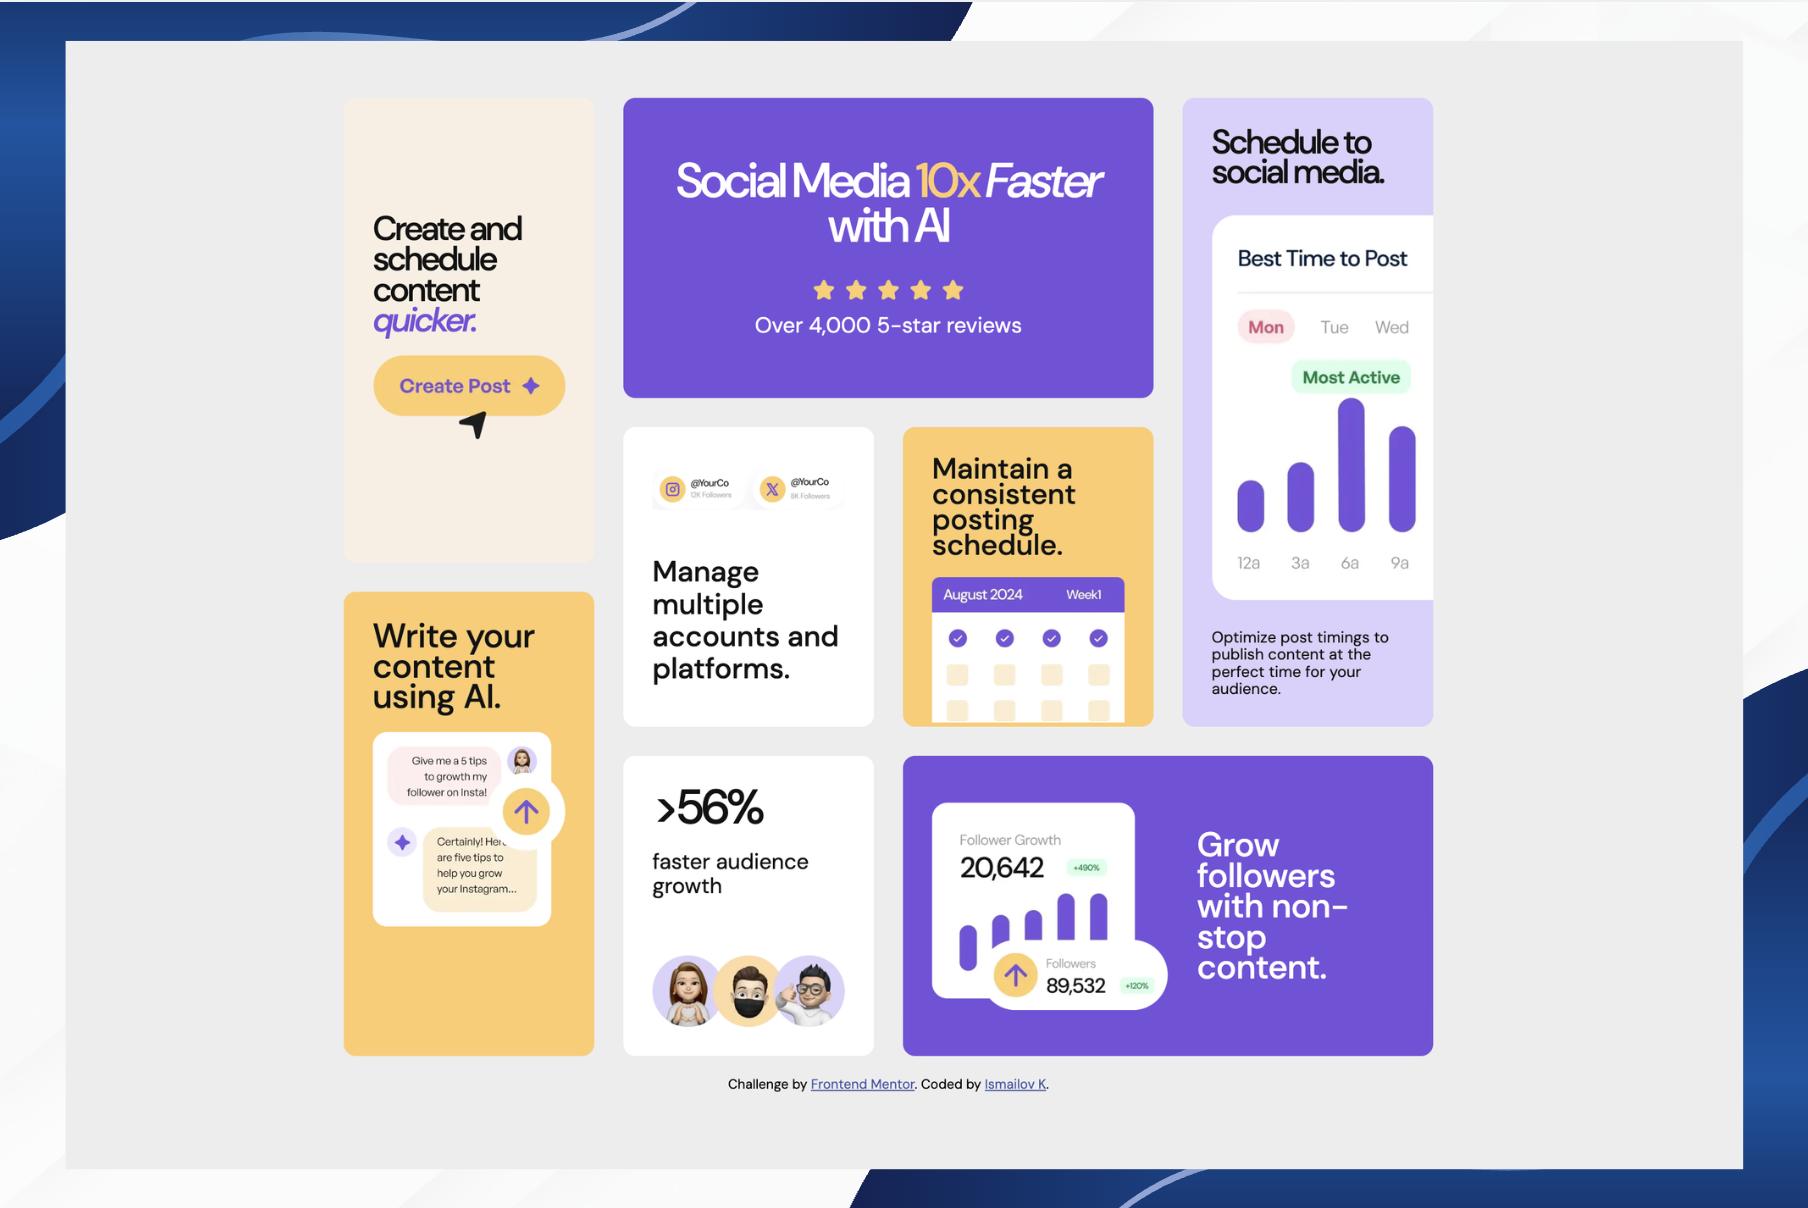
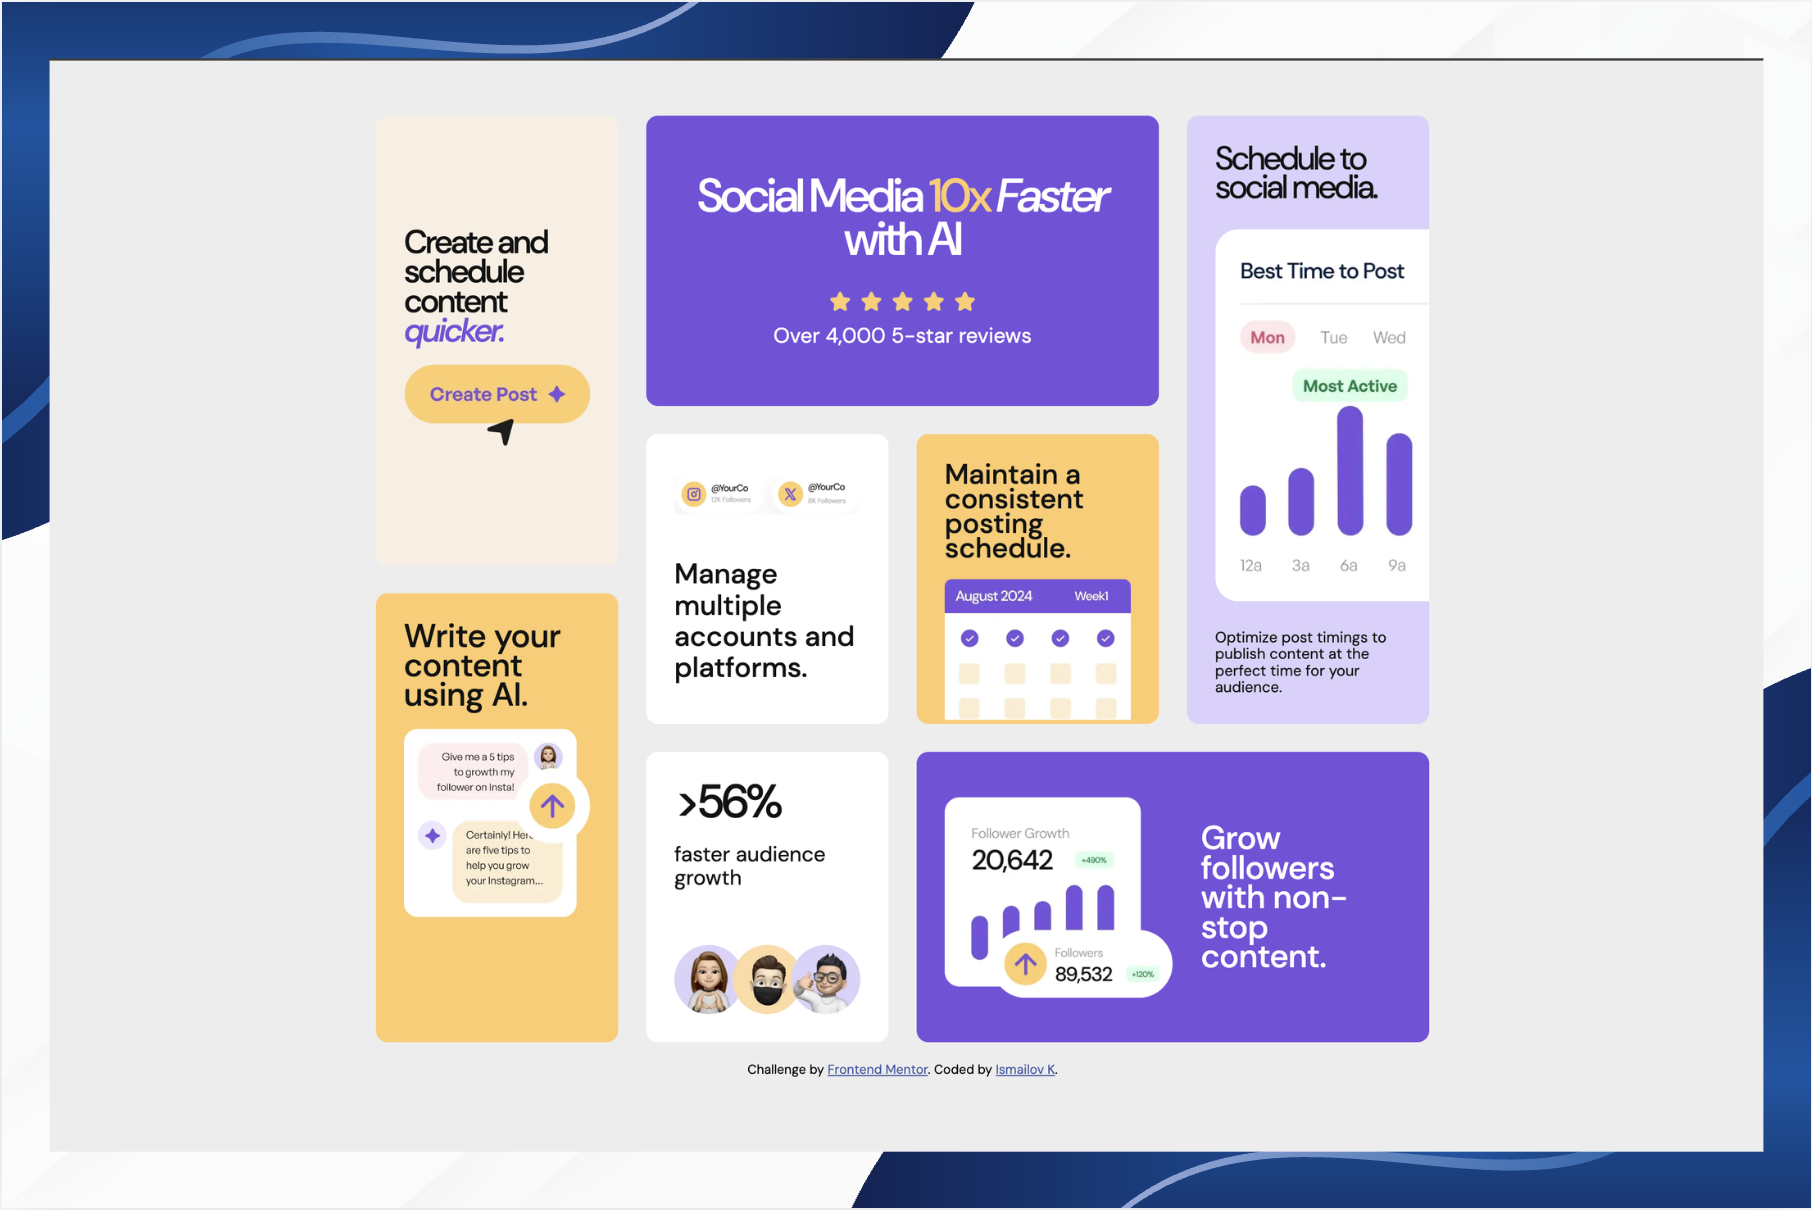
new screenshot file, new readme file, and some css changes were made

diff --git a/style.css b/style.css
@@ -29,6 +29,7 @@ body {
 .card-hero       { grid-column: 2 / span 2; grid-row: 1 / span 2; }
 .card-schedule   { grid-column: 4;          grid-row: 1 / span 4; }
 .card-manage     { grid-column: 2;          grid-row: 3 / span 2; }
+ 
 .card-consistent { grid-column: 3;          grid-row: 3 / span 2; }
 .card-ai         { grid-column: 1;          grid-row: 4 / span 3; }
 .card-audience   { grid-column: 2;          grid-row: 5 / span 2; }
@@ -122,7 +123,7 @@ body {
 
 .card-schedule__title {
     font-size: 1.75rem;
-    font-weight: 500;
+    font-weight: 400;
     line-height: 0.875;
     letter-spacing: -2px;
     color: hsl(0, 0%, 7%);

diff --git a/README.md b/README.md
@@ -12,6 +12,7 @@ This is my solution to the [Bento grid challenge on Frontend Mentor](https://www
   - [Built with](#built-with)
   - [What I learned](#what-i-learned)
   - [Continued development](#continued-development)
+  - [AI Collaboration](#ai-collaboration)
 - [Author](#author)
 
 ## Overview
@@ -28,7 +29,7 @@ Users should be able to:
 
 ### Links
 
-- Solution URL: [Solution](https://github.com/Ismail-SWE/bento-grid)
+- Solution URL: [GitHub](https://github.com/Ismail-SWE/bento-grid)
 - Live Site URL: [Live Site](https://ismail-swe.github.io/bento-grid/)
 
 ## My process
@@ -36,31 +37,157 @@ Users should be able to:
 ### Built with
 
 - Semantic HTML5 markup
-- CSS custom properties
-- Flexbox
 - CSS Grid
-- Mobile-first workflow
+- Flexbox
+- CSS custom properties
+- Mobile-first responsive design
 
 ### What I learned
 
-This project was a great exercise in working with CSS Grid beyond the basics. Before starting, I was comfortable with simple grid layouts, but this challenge pushed me to think more carefully about how grid areas and grid lines actually work together.
+**1. grid-template-areas — naming grid zones**
 
-One thing that clicked for me was the difference between `grid-template-areas` and placing elements manually with `grid-column` / `grid-row`. I started with named areas because they felt more readable, but eventually switched to the line-based approach to get more precise control over how many rows each card spans. Using `grid-row: 1 / span 3` felt much more intentional than just naming zones.
+Starting with named areas felt the most readable way to visualize the layout:
 
-I also got a better feel for when `overflow: hidden` on a card is actually doing useful work — hiding the parts of images that intentionally bleed out of the card edges. Pairing that with negative margins like `margin-bottom: -1.5rem` to push an image past the card boundary was a small trick that made a big visual difference.
+```css
+.grid {
+    grid-template-areas:
+        "create  hero    hero     schedule"
+        "create  manage  consist  schedule"
+        "ai      audience  grow   grow";
+}
 
-Another thing I hadn't thought much about before was how `position: absolute` needs a `position: relative` parent to behave correctly. I ran into a bug where an image was escaping the card entirely and landing on top of other elements — the fix was simply adding `position: relative` to the card itself.
+.card-create   { grid-area: create; }
+.card-hero     { grid-area: hero; }
+```
 
-On the typography side, working directly from a Figma style guide helped me understand how design tokens translate into CSS. Matching `line-height: 0.935` or `letter-spacing: -3px` from a spec feels different from just eyeballing it, and I think my attention to those details improved a lot during this project.
+**2. Line-based placement — grid-column and grid-row**
+
+I later switched to line-based placement for more precise control over how many rows each card spans:
+
+```css
+.card-create   { grid-column: 1;          grid-row: 1 / span 3; }
+.card-hero     { grid-column: 2 / span 2; grid-row: 1 / span 2; }
+.card-schedule { grid-column: 4;          grid-row: 1 / span 4; }
+```
+
+**3. overflow: hidden — intentional image bleeding**
+
+Cards use `overflow: hidden` to clip images that bleed past the card edges. Negative margins push images outside the padding boundary:
+
+```css
+.card {
+    overflow: hidden;
+    padding: 1.5rem;
+}
+
+.card-consistent__img {
+    margin-bottom: -1.5rem; /* bleeds past bottom edge */
+    width: calc(100% + 3rem); /* stretches past side edges */
+    margin-left: -1.5rem;
+}
+```
+
+**4. position: absolute needs position: relative parent**
+
+When positioning an image absolutely inside a card, the card itself needs `position: relative` — otherwise the image escapes to the nearest positioned ancestor:
+
+```css
+.card-schedule {
+    position: relative; /* without this, image escapes the card */
+}
+
+.card-schedule img {
+    position: absolute;
+    bottom: 0;
+}
+```
+
+**5. CSS custom properties — reusable values**
+
+```css
+:root {
+    --purple-500: hsl(256, 67%, 59%);
+    --yellow-500: hsl(39, 100%, 71%);
+    --purple-100: hsl(254, 88%, 90%);
+    --yellow-100: hsl(31, 66%, 93%);
+}
+```
+
+**6. Figma style guide — design tokens to CSS**
+
+Working from a Figma style guide made typography much more precise. Instead of eyeballing values, I matched exact specs:
+
+```css
+.card-hero__title {
+    font-size: 2.5rem;
+    line-height: 0.935;
+    letter-spacing: -2px; /* directly from Figma */
+}
+```
+
+**7. grid-template-rows — controlling row heights**
+
+Without explicit row heights, rows expand to fit their content unevenly. Adding `repeat(6, 1fr)` made all rows equal height:
+
+```css
+.grid {
+    grid-template-rows: repeat(6, 1fr);
+    height: 850px;
+}
+```
+
+**8. Sketching grid layout before coding**
+
+Before writing any CSS, mapping out the grid visually — which card spans how many columns and rows — saved a lot of trial and error. The bento layout has 4 columns and 6 rows with cards spanning different areas.
+
+**9. flex-direction: row — horizontal card layout**
+
+The "Grow followers" card places the image and text side by side:
+
+```css
+.card-grow {
+    display: flex;
+    flex-direction: row;
+    align-items: center;
+    gap: 1.5rem;
+}
+
+.card-grow__img {
+    width: 50%;
+    flex-shrink: 0;
+}
+```
+
+**10. margin-top: auto — pushing content to the bottom**
+
+Inside a flex column, `margin-top: auto` on an image pushes it to the bottom of the card while keeping the title at the top:
+
+```css
+.card-create {
+    display: flex;
+    flex-direction: column;
+}
+
+.card-create img {
+    margin-top: auto;
+}
+```
 
 ### Continued development
-
-I want to keep improving at:
 
 - Building fully responsive layouts without relying on fixed pixel heights
 - Getting more comfortable reading and implementing designs directly from Figma
 - Writing cleaner, more organized CSS — especially avoiding conflicts between general rules like `.card img` and specific overrides
+- Adding smooth CSS transitions and hover effects
+
+### AI Collaboration
+
+- **Tool:** Claude (Anthropic)
+- **How:** Used for learning CSS Grid concepts, debugging layout issues, analyzing Figma designs, and understanding how grid placement strategies differ
+- **What worked well:** Going step by step — reset, body, grid container, grid areas, then each card one by one — made the process much clearer than trying to write everything at once. Getting instant feedback on screenshots helped catch issues early
+- **What didn't:** Some sizing values still needed manual trial and error — AI cannot always predict the exact visual result without seeing the rendered output
 
 ## Author
 
 - Frontend Mentor - [@Ismail-SWE](https://www.frontendmentor.io/profile/Ismail-SWE)
+- GitHub - [@Ismail-SWE](https://github.com/Ismail-SWE)
